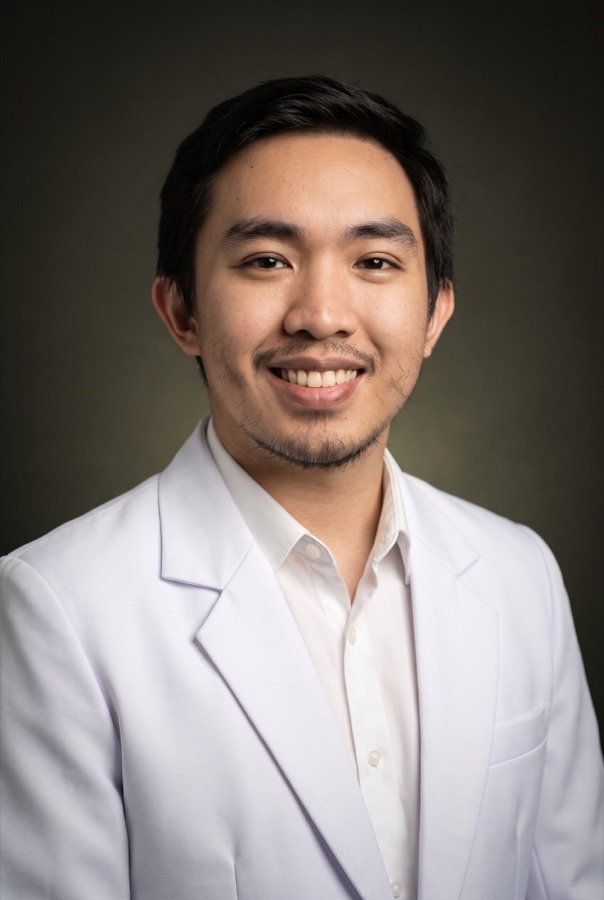
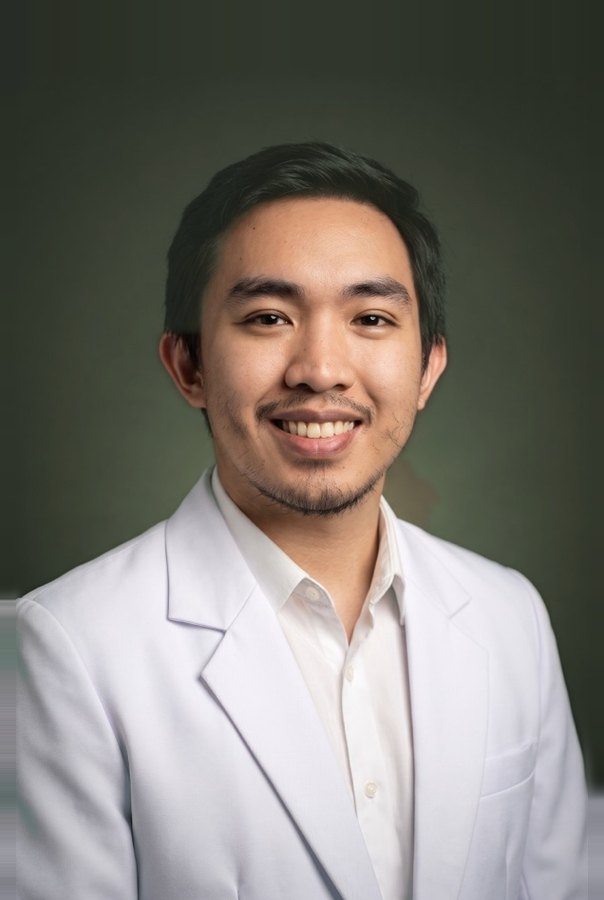
Match new doctor photos to team backdrop and framing; fix hover corners

diff --git a/src/styles.css b/src/styles.css
@@ -371,9 +371,8 @@ button { font: inherit; }
 
 /* ---------- Doctors ---------- */
 .doctors-grid { display: grid; grid-template-columns: repeat(4, 1fr); gap: 36px 28px; }
-.doctor-image { width: 100%; aspect-ratio: 3 / 4; object-fit: cover; object-position: 50% 8%; border-radius: var(--radius); background: var(--beige); margin-bottom: 16px; transition: transform 0.6s var(--ease); }
-.doctor-card { overflow: hidden; }
-.doctor-card:hover .doctor-image { transform: scale(1.02); }
+.doctor-image { width: 100%; aspect-ratio: 3 / 4; object-fit: cover; object-position: 50% 8%; border-radius: var(--radius); background: var(--beige); margin-bottom: 16px; transition: filter 0.4s var(--ease); }
+.doctor-card:hover .doctor-image { filter: brightness(1.06); }
 .doctor-image.placeholder { display: flex; align-items: center; justify-content: center; font-family: var(--font-serif); font-size: 3rem; color: var(--taupe); }
 .doctor-card h4 { font-family: var(--font-serif); font-size: 1.18rem; font-weight: 500; line-height: 1.3; margin-bottom: 4px; }
 .doctor-group { display: block; font-family: var(--font-ui); font-size: 0.68rem; font-weight: 600; letter-spacing: 0.1em; text-transform: uppercase; color: var(--sage); margin-bottom: 4px; }
